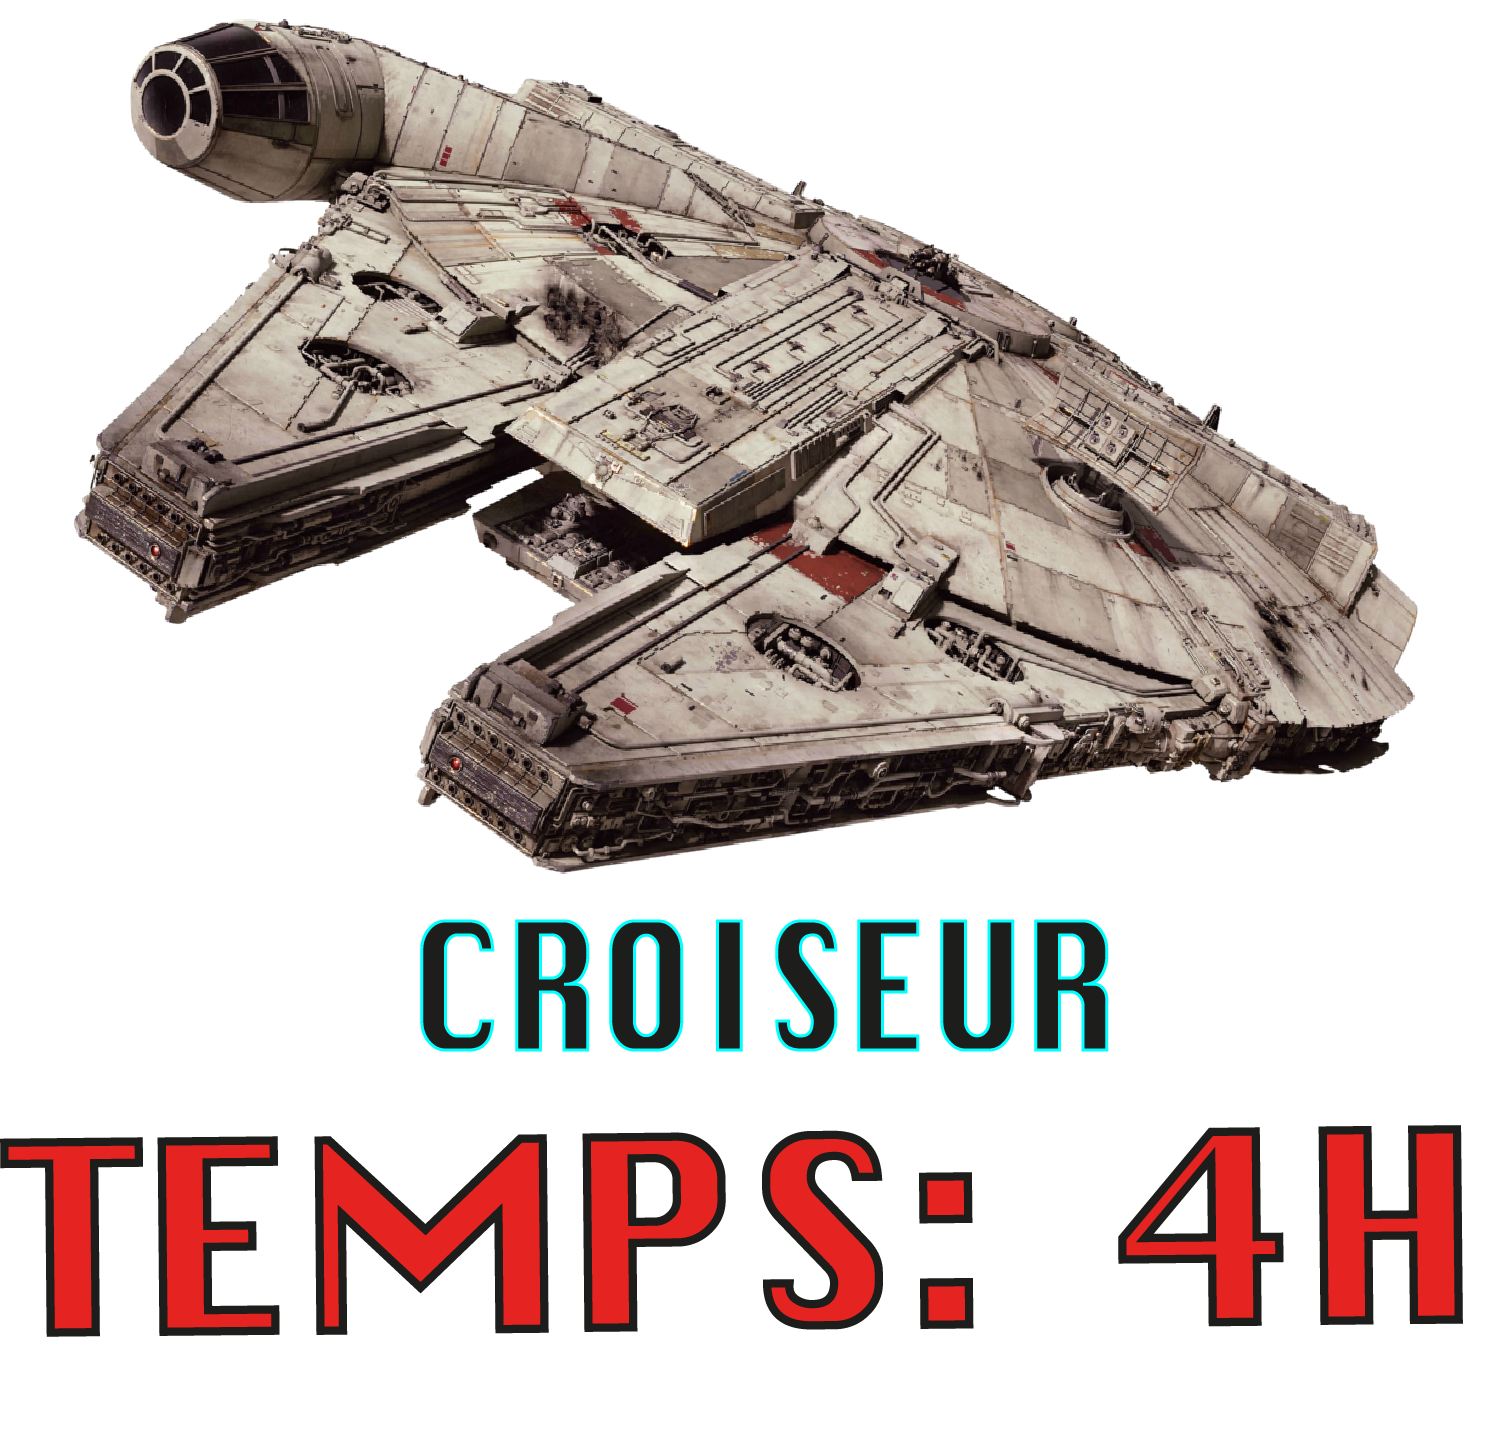
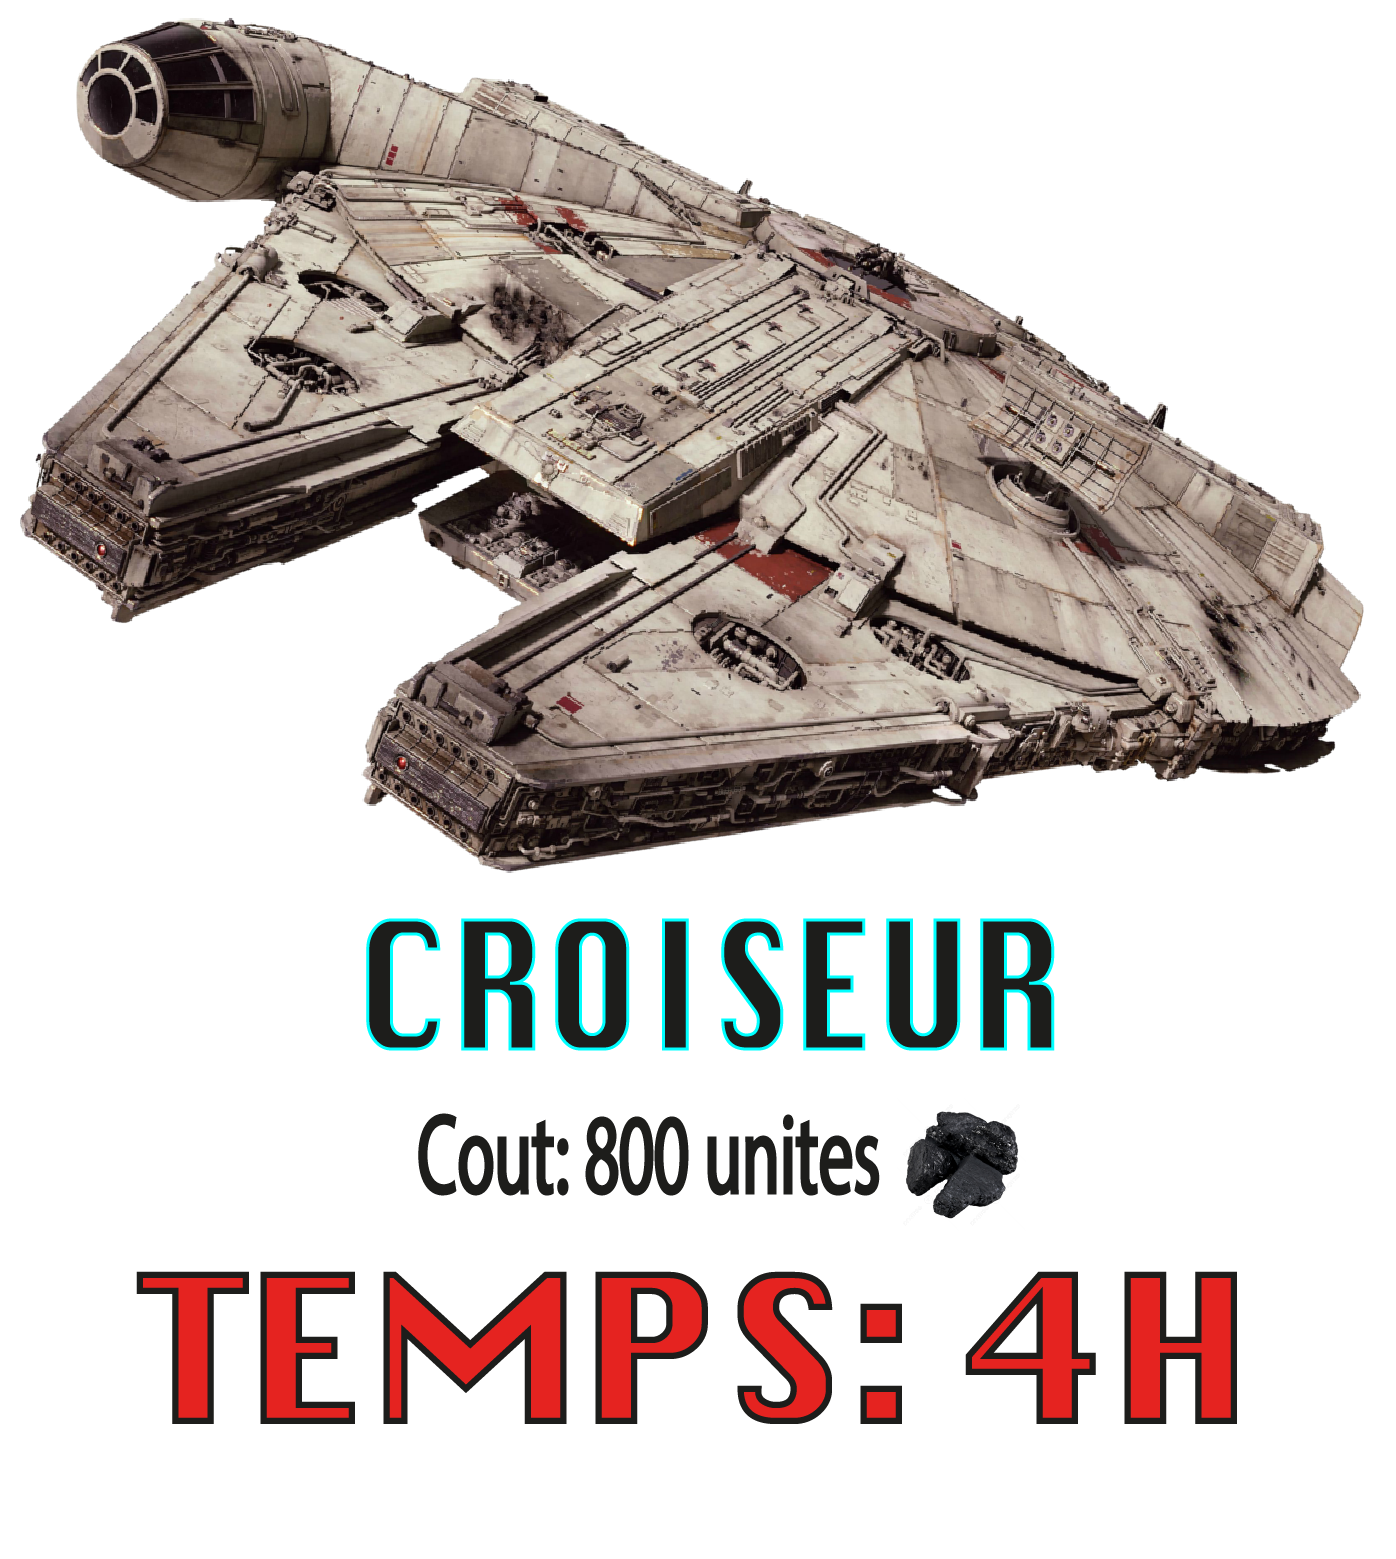
modif img vaisseaux (ajout cout)

diff --git a/src/Components/ChantierSpatial/ChantierCard.jsx b/src/Components/ChantierSpatial/ChantierCard.jsx
@@ -5,10 +5,10 @@ function ChantierCard(props) {
   const [currentImage, setCurrentImage] = useState(0);
 
   const images = [
-    "src/Components/img/chasseur5 copie.png",
-    "src/Components/img/fregate2 copie.png",
+    "src/Components/img/chasseur5 copie 2.png",
+    "src/Components/img/fregate2 copie 2.png",
     "src/Components/img/Croiseur6 copie.png",
-    "src/Components/img/Destroyeur3 copie.png",
+    "src/Components/img/Destroyeur3 copie 2.png",
   ];
 
   const handleNext = () => {
